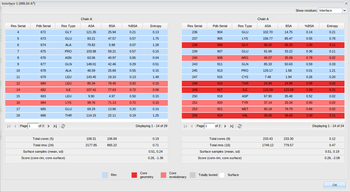
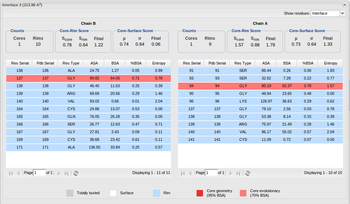
Updated help, downloads and releases for release 2.0.3

diff --git a/war/help.html b/war/help.html
@@ -5,7 +5,6 @@
 <div class="eppic-iframe">
 
 <img class="eppic-iframe-top-img" src="resources/images/eppic-logo.png">
-</img>
 
 
 <h1>
@@ -117,14 +116,14 @@ In those cases we color the operator icon in red.
 In any case our final call ignores this at the moment but we might use that information in future versions.
 </p>
 
+
 <h2>
 Viewing the interfaces in 3D
 </h2>
 
 <p>
 <img class="eppic-iframe-right-img" src="resources/images/pse-withsurface-verysmall.png" 
- alt="3D view in PyMOL as it appears with the .pse files (surface representation was added)">
-</img>
+ title="3D view of interface as it would appear in PyMOL using the pse mode (surface representation was added)">
 
 The thumbnails in the Interface table give a visual cartoon representation of the interfaces. By 
 clicking on them one gets an interactive 3D view, depending on the selected mode in the drop-down menu: 
@@ -144,59 +143,23 @@ representation is particularly helpful here in order to see surface residues onl
 </p>
 
 
-
-
-
 <h2>
-The Residue Details window
+Top panel: experimental information and sequence information 
 </h2>
 <p>
-<img class="eppic-iframe-left-img" src="resources/images/residue-details-table.png">
-</img>  
-Clicking on the "Details" button in the last column of the main interfaces table will give you a detailed 
-view of scores and information per residue, divided into two upper tables with all residue details and
-two lower tables with score details.
-</p>
-<p> 
-In the residue tables, only the residues at the interface are shown by default. To 
-see all residues of the two chains one needs to switch the view with the drop down menu on the upper 
-right of the residue details window.
+The top panel is subdivided into two subpanels: on the left an <b>Experimental Information</b> panel
+and on the right a <b>Sequence Information</b> panel.
 </p>
 <p>
-The first 2 columns of the residue tables are the residue numbers: "Res Serial" for 
-the numbering based on the SEQRES sequence from 1 to n, "Pdb serial" for the numbering as it appears on the 
-ATOM lines of the PDB file. Four pieces of information are given for each residue: the total accessible surface 
-area (ASA), the total buried surface area (BSA) upon formation of interface, the ratio of burial (BSA/ASA) 
-upon formation of interface (the core/rim assignments are based on this) and finally the entropy value based on
-the multiple sequence alignments of homologs to the query sequence. More information about the homologs and 
-alignments can be found on the Top Panel.
-</p>
-<p>
-Below the residue details tables are the score summary tables with each of the core-rim and core-surface
-scores for each side of the interface plus average entropy of core residues, average entropy of rim residues 
-and the mean entropy and standard deviation of the surface samples.
-</p>
-<p> 
-Beneath that, the legend shows the color coding used for the residues in the tables. Dark red is used for the 
-core residues at <b>95% burial</b>, which are used for the geometry prediction. Lighter red for the core 
-residues at <b>70% burial</b>, used in the evolutionary core-rim and core-surface predictions. Light blue 
-for all other interface residues. White for surface residues not at the interface and grey for fully buried 
-(protein interior) residues.
-</p>
-
-<h2>
-Top panel: homolog sequences and alignments
-</h2>
-<p>
-The top panel contains additional information about the sequences and parameters used to run
-the evolutionary predictions. On the top left corner there is a line for each of the distinct
-protein sequences present in the protein structure. Each line is composed of 4 parts:
+The <b>Sequence Information</b> panel contains information about the sequences and their homologs. 
+There is a line for each of the distinct protein sequences present in the protein structure. 
+If too many chains are present in the structures,
+arrows will appear on the left of the panel to navigate to other chains. Each line is composed of 4 parts:
 </p>
  
 <ul>
 <img class="eppic-iframe-right-img" src="resources/images/pse-color-entropies.png" 
- alt="3D view in PyMOL with colors representing sequence entropies">
-</img>
+ title="Protein surface rendering with colors representing sequence entropies, as one would get by clicking on the colored entropies icon">
 <li>
 <b>The chain identifier(s)</b>: first letter is the chain identifier of the representative sequence, in brackets 
 are the identifiers of identical sequences. Click on it to see the alignment of the chain to its reference 
@@ -234,15 +197,68 @@ containing the text output files with the results for all interfaces (as when ru
 The UniProt database version: the sequence data
 </h2>
 <p>
-On the right of the Top Panel the UniProt version is indicated. This is the UniProt database version used to 
-find homologs for the EPPIC multiple sequence alignments. A new UniProt database release appears every month containing
-more and more sequences, in fact the growth is exponential thanks to new sequencing technologies (growth
-statistics can be seen <a href="http://www.ebi.ac.uk/uniprot/TrEMBLstats/" target="_blank">here</a>). With more 
-sequences we can do better predictions (see this <a href="http://www.biomedcentral.com/1471-2105/13/334/figure/F6" target="_blank">figure</a>), 
+On the header of the <b>Sequence Information</b> panel the UniProt version is indicated. This is the UniProt 
+database version used to find homologs for the EPPIC multiple sequence alignments. A new UniProt database 
+release appears every month containing more and more sequences, in fact the growth is exponential thanks to 
+new sequencing technologies (growth statistics can be seen 
+<a href="http://www.ebi.ac.uk/uniprot/TrEMBLstats/" target="_blank">here</a>). With more 
+sequences we can do better predictions (see this 
+<a href="http://www.biomedcentral.com/1471-2105/13/334/figure/F6" target="_blank">figure</a>), 
 thus the growth of the UniProt sequence database has quite an important effect in our predictions. We will
 try to maintain the results as up-to-date as possible and to update the PDB-wide precomputed results every few 
-months and eventually every month (for every UniProt update). In any case if you use our results it is thus important to quote 
+months and eventually every month (for every UniProt update). In any case if you use our results it is important to quote 
 the UniProt database version used.
+</p>
+
+
+<h2>
+The Residue Details window
+</h2>
+<p>
+<img class="eppic-iframe-left-img" src="resources/images/residue-details-table.png" 
+title="Screenshot of the residue details window">
+Clicking on the "Details" button in the last column of the main interfaces table will give you a detailed 
+view of scores and information per residue, divided into a top panel containing score details per side of 
+interface and two lower tables with details per residue.
+</p>
+<p>
+The scores are subdivided into 3 different panels: 
+<b>Counts</b> containing the number of core residues at 70% burial, i.e. those used for the evolutionary 
+predictions; <b>Core-Rim Score</b> showing average entropy of core and rim plus the ratio of both (final core-rim score);
+<b>Core-Surface Score</b> showing the mean and standard deviation of average entropies of surface samples and final
+core-surface score. 
+</p>
+<p> 
+In the residue tables, only the residues at the interface are shown by default. To 
+see all residues of the two chains one needs to switch the view with the drop down menu on the upper 
+right of the residue details window.
+</p>
+<p>
+The first 2 columns of the residue tables are the residue numbers: "Res Serial" for 
+the numbering based on the SEQRES sequence from 1 to n, "Pdb serial" for the numbering as it appears on the 
+ATOM lines of the PDB file. Four pieces of information are given for each residue: the total accessible surface 
+area (ASA), the total buried surface area (BSA) upon formation of interface, the ratio of burial (BSA/ASA) 
+upon formation of interface (the core/rim assignments are based on this) and finally the entropy value based on
+the multiple sequence alignments of homologs to the query sequence. More information about the homologs and 
+alignments can be found on the Top Panel.
+</p>
+<p> 
+At the bottom of the window the legend shows the color coding used for the residues in the tables. 
+Dark red is used for the core residues at <b>95% burial</b>, which are used for the geometry prediction. 
+Lighter red for the core residues at <b>70% burial</b>, used in the evolutionary core-rim and core-surface predictions. 
+Light blue for all other interface residues. 
+White for surface residues not at the interface and grey for fully buried (protein interior) residues.
+</p>
+
+
+<h2>
+Low resolution warnings
+</h2>
+<p>
+A low resolution/high R-free warning will appear in red next to the structure title on top. 
+Whenever this happens one should treat all results with care: in low resolution structures
+side chains can not always be trusted. Our predictions depend on the side chains to calculate burial 
+and find the interface core residues, thus they will be unreliable. 
 </p>
 
 
@@ -277,18 +293,22 @@ colleagues. The jobs will be stored in our servers for at least 1 month.
 </p>
 <p>
 The PDB-wide precomputed results can be accessed directly by using the permanent URLs:
-http://www.eppic-web.org/ewui/#id/&lt;PDB_code&gt;
+<code>http://www.eppic-web.org/ewui/#id/&lt;PDB_code&gt;</code>
 </p>
 
-<!-- <img src="resources/images/EPPIC-screenshot-3hbx-small.png"></img> -->
 
 <br>
 <br>
 <br>
 
 <p>
-Please cite <a href="http://www.biomedcentral.com/1471-2105/13/334/abstract" target="_blank">Duarte et al., BMC Bioinformatics 2012</a> if you use this service for 
-your research.
+Please cite 
+<a href="http://www.biomedcentral.com/1471-2105/13/334" target="_blank">
+Duarte JM, Srebniak A, Schaerer MA, Capitani G, BMC Bioinformatics 2012</a>
+if you use this service for your research. 
+See also 
+<a href="http://www.biomedcentral.com/1472-6807/13/21" target="_blank">this paper</a> 
+where we show that the method works well on membrane proteins. 
 </p>
 
 <p>
@@ -300,7 +320,7 @@ problems or send any kind of feedback.
 With support from:
 </p>
 
-</div>
+
 
 <!-- <div class="eppic-iframe-bottom-logos"> -->
 <div class="first" >
@@ -321,12 +341,11 @@ With support from:
 </a>
 </div>
 
-<!-- </div> -->
-
-
 
 <!--
 <a href="http://www.ethz.ch">
 <img class="eppic-iframe-bottom-img" src="resources/images/eth_logo.gif"></img>
 </a>
 -->
+
+</div>

diff --git a/war/downloads.html b/war/downloads.html
@@ -5,7 +5,7 @@
 <div class="eppic-iframe">
 
 <img class="eppic-iframe-top-img" src="resources/images/eppic-logo.png">
-</img>
+
 
 <h1>
 Software and source code
@@ -48,8 +48,9 @@ Datasets
 
 <p>
 The datasets used for developing the EPPIC method (see the 
-<a href="http://www.biomedcentral.com/1471-2105/13/334/abstract" target="_blank">paper</a>)
+<a href="http://www.biomedcentral.com/1471-2105/13/334" target="_blank">paper</a>)
 can be downloaded as plain text files:
+</p>
 
 <ul>
 <li>
@@ -61,6 +62,7 @@ areas (&gt;1000Å<sup>2</sup>)
 relatively small interface areas (&lt;2000Å<sup>2</sup>)
 </li>
 </ul>
+
 
 <p>
 The area distributions of the DCxtal and DCbio interfaces, as seen in  
@@ -76,6 +78,16 @@ to largest interface in crystal, and increasing ids for smaller interfaces. If n
 interface 1 is implied. Lines starting with "#" are comments.
 </p>
 
+<p>
+We recently compiled (see <a href="http://www.biomedcentral.com/1472-6807/13/21" target="_blank">paper</a>) 
+a new dataset of experimentally validated transmembrane protein oligomeric structures. It can also be downloaded as
+text file here:
 </p>
+<ul>
+<li>
+<a href="../downloads/TMPbio.txt">TMPbio set</a>: a set of biological interfaces spanning the transmembrane region, from 
+both alpha and beta TMP subclasses
+</li>
+</ul>
 
 </div>

diff --git a/war/releases.html b/war/releases.html
@@ -6,12 +6,39 @@
 
 
 <img class="eppic-iframe-top-img" src="resources/images/eppic-logo.png">
-</img>
 
 
 <h1>
 Release log
 </h1>
+
+<h2>
+2.0.3 - 18th November 2013
+</h2>
+
+<ul class="eppic-iframe-log-list">
+<li>
+Improvements in top panel: now split into experimental info panel and sequence info panel. 
+Also some improvements in residue details window: scores are now better displayed.
+</li>
+<li>
+Cleaned up the input page: only alignment parameters can now be modified in advanced input.
+</li>
+<li>
+Warnings for low resolution or high R-free added.
+</li>
+<li>
+Interfaces below 35 Å<sup>2</sup> are not displayed anymore.
+</li>
+<li>
+Fixed issue in interfaces calculation: the interface search was extended to more distant cells,
+missing interfaces in structures such as 1was will now appear. 
+</li>
+<li>
+A few bug fixes
+</li>
+</ul>
+
 
 <h2>
 2.0.2 - 22nd August 2013
